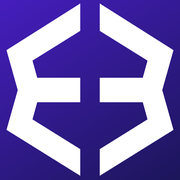
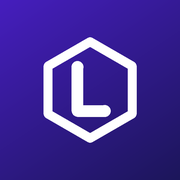
Larpodus : retire l'envoi/réception, rebrand parodie, garde l'ajout d'argent
Claude-Session: https://claude.ai/code/session_01Uumx4GnREwEhwNvb3LoRYL

diff --git a/exodus-larp/index.html b/exodus-larp/index.html
@@ -6,11 +6,11 @@
 <meta name="apple-mobile-web-app-capable" content="yes">
 <meta name="mobile-web-app-capable" content="yes">
 <meta name="apple-mobile-web-app-status-bar-style" content="black-translucent">
-<meta name="apple-mobile-web-app-title" content="Exodus">
+<meta name="apple-mobile-web-app-title" content="Larpodus">
 <meta name="theme-color" content="#161623">
 <link rel="manifest" href="manifest.json">
 <link rel="apple-touch-icon" href="apple-touch-icon.png">
-<title>Exodus</title>
+<title>Larpodus</title>
 <style>
 :root{--pur:#6c4dff;--pur2:#8467ff;--txt:#fff;--mut:#9a9aaf;--grn:#5be04b;--line:rgba(255,255,255,.1);--glass:rgba(255,255,255,.065)}
 *{box-sizing:border-box;-webkit-tap-highlight-color:transparent;-webkit-touch-callout:none}
@@ -173,12 +173,11 @@ input[type=number]{-moz-appearance:textfield}
       <div class="ctr" id="ctr" onclick="toggleHide()"></div></div>
     <div class="pills" id="pills">
       <div class="pill p" onclick="openTrade('buy')"><svg viewBox="0 0 24 24"><path d="M12 4v12M7 11l5 5 5-5M5 20h14"/></svg>Acheter</div>
-      <div class="pill" onclick="openReceive()"><svg viewBox="0 0 24 24"><path d="M18 6L6 18M6 8v10h10"/></svg>Recevoir</div>
-      <div class="pill" onclick="openSend()"><svg viewBox="0 0 24 24"><path d="M6 18L18 6M8 6h10v10"/></svg>Envoyer</div>
       <div class="pill" onclick="openTrade('sell')"><svg viewBox="0 0 24 24"><path d="M12 20V8M7 13l5-5 5 5M5 4h14"/></svg>Vendre</div>
     </div>
     <input class="fi sr" id="sr" placeholder="Rechercher" oninput="renderList()">
     <div class="cards" id="list"></div>
+    <div class="hint" style="margin-top:4px;font-size:12px;opacity:.55">Larpodus · mode démo</div>
   </div>
 
   <!-- SWAP -->
@@ -223,7 +222,7 @@ input[type=number]{-moz-appearance:textfield}
 <script>
 'use strict';
 const $=s=>document.querySelector(s);
-const LOGO='<path fill="#fff" d="M277 100V163L167 232L178 272H277V328H178L167 368L277 437V498L107 392L133 300L107 208Z"/><path fill="#fff" d="M323 100V163L433 232L422 272H323V328H422L433 368L323 437V498L493 392L467 300L493 208Z"/>';
+const LOGO='<path d="M300 70L500 185V415L300 530L100 415V185Z" fill="none" stroke="#fff" stroke-width="44" stroke-linejoin="round"/><path d="M240 190V400H370" fill="none" stroke="#fff" stroke-width="56" stroke-linecap="round" stroke-linejoin="round"/>';
 $('#logoS').innerHTML=LOGO;
 const CUR={EUR:{s:'€',r:1},USD:{s:'$',r:1.08},CHF:{s:'CHF ',r:.94},GBP:{s:'£',r:.85}};
 const CAT=[['LTC','Litecoin',60.49,-2.3,'#bdbdbd',0],['SOL','Solana',103.98,-2.2,'#111',0],['BTC','Bitcoin',73046.51,-.7,'url(#hb)',0],['ETH','Ethereum',2355.75,.6,'#3a3d5c',0],
@@ -233,13 +232,13 @@ const CAT=[['LTC','Litecoin',60.49,-2.3,'#bdbdbd',0],['SOL','Solana',103.98,-2.2
 const GLY={BTC:'₿',LTC:'Ł',ETH:'◆',USDT:'₮',BNB:'◆',XRP:'✕',DOGE:'Ð',ADA:'₳',AVAX:'A',TRX:'T',LINK:'⬡',TON:'▼',DOT:'●',USDC:'$'};
 const CG={BTC:'bitcoin',ETH:'ethereum',SOL:'solana',USDT:'tether',USDC:'usd-coin',BNB:'binancecoin',XRP:'ripple',DOGE:'dogecoin',ADA:'cardano',AVAX:'avalanche-2',LTC:'litecoin',TRX:'tron',SHIB:'shiba-inu',PEPE:'pepe',LINK:'chainlink',TON:'the-open-network',DOT:'polkadot'};
 const STAKE={SOL:1,ETH:1,ADA:1,DOT:1};
-const KEY='exodus-larp-v2';
+const KEY='larpodus-v1';
 const MOIS=['janv.','févr.','mars','avr.','mai','juin','juil.','août','sept.','oct.','nov.','déc.'];
 let S,ready=false,curTab=0;
 function fresh(){const y=new Date();y.setMonth(5,4);y.setHours(17,54,0,0);
  return{cur:'EUR',hide:false,seed:Math.floor(Math.random()*1e9),
  assets:CAT.map(([sym,name,price,ch,color])=>({sym,name,price,ch,color,qty:sym==='LTC'?.005159:sym==='SOL'?.000959:0,custom:false})),
- tx:[{type:'out',sym:'LTC',qty:.240221,eur:9.42,ts:y.getTime()}]}}
+ tx:[]}}
 function load(){try{S=JSON.parse(localStorage.getItem(KEY))}catch(e){}if(!S||!S.assets)S=fresh()}
 function save(){try{localStorage.setItem(KEY,JSON.stringify(S))}catch(e){}}
 load();
@@ -263,20 +262,6 @@ function hexIcon(a,sz){sz=sz||46;let inner;
  const fill=a.sym==='LTC'?'url(#hl)':a.color;
  return `<svg class="hex" width="${sz}" height="${sz}" viewBox="0 0 46 46"><defs><linearGradient id="hl" x1="0" y1="0" x2="1" y2="1"><stop offset="0" stop-color="#e4e4e4"/><stop offset="1" stop-color="#8e8e8e"/></linearGradient></defs><path d="M23 2.5l17.5 10v21L23 43.5 5.5 33.5v-21z" fill="${fill}" stroke="rgba(255,255,255,.28)" stroke-width="1.4" stroke-linejoin="round"/>${inner}</svg>`}
 const stk='<svg class="stk" viewBox="0 0 20 22"><path d="M10 1l8 4.5v11L10 21 2 16.5v-11z" fill="#3a3a52" stroke="rgba(255,255,255,.3)"/><path d="M6.5 14.5l7-7M7.3 8.4h.1M12.7 13.6h.1" stroke="#fff" stroke-width="1.6" stroke-linecap="round"/></svg>';
-
-/* qr / address */
-function addr(sym){let h=0;const s=sym+S.seed;for(let i=0;i<s.length;i++)h=(h*31+s.charCodeAt(i))>>>0;const r=()=>{h=(h*1664525+1013904223)>>>0;return h};
- const hx='0123456789abcdef',b58='123456789ABCDEFGHJKLMNPQRSTUVWXYZabcdefghijkmnopqrstuvwxyz';let o='';
- if(sym==='BTC'){o='bc1q';for(let i=0;i<38;i++)o+=hx[r()%16];return o}
- if(sym==='LTC'){o='ltc1q';for(let i=0;i<38;i++)o+=hx[r()%16];return o}
- if(['SOL','XRP','TRX','TON','DOT'].includes(sym)){for(let i=0;i<(sym==='SOL'?44:34);i++)o+=b58[r()%58];return(sym==='XRP'?'r':sym==='TRX'?'T':'')+o}
- o='0x';for(let i=0;i<40;i++)o+=hx[r()%16];return o}
-function qr(str){let h=5381;for(const c of str)h=(h*33+c.charCodeAt(0))>>>0;const r=()=>{h=(h*1664525+1013904223)>>>0;return h>>>16};
- const N=25;let d='';const fin=(x,y)=>{d+=`M${x} ${y}h7v7h-7z M${x+1} ${y+1}v5h5v-5z M${x+2} ${y+2}h3v3h-3z`};
- const inF=(x,y)=>(x<8&&y<8)||(x>N-9&&y<8)||(x<8&&y>N-9);
- for(let y=0;y<N;y++)for(let x=0;x<N;x++)if(!inF(x,y)&&r()%2)d+=`M${x} ${y}h1v1h-1z`;
- fin(0,0);fin(N-7,0);fin(0,N-7);
- return `<svg class="qr" viewBox="0 0 ${N} ${N}" shape-rendering="crispEdges"><path fill="#000" fill-rule="evenodd" d="${d}"/></svg>`}
 
 /* ---------- portfolio ---------- */
 let shown=0,anim;
@@ -336,7 +321,7 @@ function openAsset(sym,keep){const a=A(sym);if(!keep)dRange='1A';
  <span class="l" style="top:${(pad-14)/H*100}%;transform:translateY(-50%)">${CS()}${nf(mx*R(),2)}</span><span class="l" style="top:${(H-pad+14)/H*100}%;transform:translateY(-50%)">${CS()}${nf(mn*R(),2)}</span></div>
  <div class="bal"><div><b>${qf(a.qty)}</b><span>${esc(a.sym)}</span></div><div><div class="v"><span class="cu">${CS().trim()}</span><span class="in">${S.hide?'•••':vv[0]}</span><span class="de">${S.hide?'':'.'+vv[1]}</span></div><span>Valeur</span></div></div>
  ${th||''}<div style="height:120px"></div>
- <div class="acts" style="position:fixed;left:0;right:0;bottom:0;margin:0;padding:14px 8px calc(env(safe-area-inset-bottom) + 12px)">${ac('buy','Buy / Sell',`openTrade('buy','${sym}')`,1)}${ac('swap','Swap',`swapFrom('${sym}')`)}${ac('send','Envoyer',`openSend('${sym}')`)}${ac('recv','Recevoir',`openReceive('${sym}')`)}</div>`)}
+ <div class="acts" style="position:fixed;left:0;right:0;bottom:0;margin:0;padding:14px 8px calc(env(safe-area-inset-bottom) + 12px)">${ac('buy','Buy / Sell',`openTrade('buy','${sym}')`,1)}${ac('swap','Swap',`swapFrom('${sym}')`)}</div>`)}
 function cycRange(sym){const k=['1J','1S','1M','1A'];dRange=k[(k.indexOf(dRange)+1)%4];const y=$('#sh').scrollTop;openAsset(sym,1);$('#sh').scrollTop=y}
 function txRow(t,ctx){const a=A(t.sym)||{sym:t.sym,name:t.sym,color:'#555'};
  const bd={in:ICONS.recv,out:ICONS.send,buy:ICONS.buy,sell:'<path d="M12 20V8M7 13l5-5 5 5"/>',swap:ICONS.swap}[t.type];
@@ -369,23 +354,6 @@ function doTrade(){const a=A($('#tSym').value),q=tQty();if(q==null||isNaN(q)||(q
  else{a.qty+=q;S.tx.unshift({type:'buy',sym:a.sym,qty:q,eur:q*a.price*R(),ts:now})}
  save();closeSh();tab(0);render();toast(tMode==='buy'?'✓ Achat effectué':'✓ Vente effectuée')}
 
-/* send / receive */
-function openSend(sym){const f=S.assets.find(a=>a.qty>0);
- sheet(`<h3>Envoyer</h3><label class="f">Crypto</label><select class="fi" id="sSym" onchange="sPrev()">${optsA(sym||(f&&f.sym)||'BTC')}</select>
- <label class="f">Adresse</label><input class="fi" id="sTo" placeholder="Coller l'adresse" autocapitalize="off" autocorrect="off" spellcheck="false">
- <label class="f">Montant</label><input class="fi" id="sAmt" type="number" inputmode="decimal" placeholder="0" oninput="sPrev()">
- <div class="chips"><button onclick="sMax()">Max</button></div><div class="hint" id="sHint"></div>
- <button class="cta" style="width:100%;margin:8px 0 0" onclick="doSend()">Envoyer</button>`,1);sPrev()}
-function sPrev(){const a=A($('#sSym').value),q=parseFloat($('#sAmt').value)||0;$('#sHint').textContent=`Disponible : ${qf(a.qty)} ${a.sym}${q?` · ≈ ${CS()}${nf(q*a.price*R(),2)}`:''}`}
-function sMax(){$('#sAmt').value=A($('#sSym').value).qty;sPrev()}
-function doSend(){const a=A($('#sSym').value),q=parseFloat($('#sAmt').value),to=$('#sTo').value.trim();
- if(to.length<10){toast('Adresse invalide');return}if(!(q>0)){toast('Saisissez un montant');return}if(q>a.qty+1e-12){toast('Solde insuffisant');return}
- sheet(`<h3>Envoi en cours…</h3><div class="spin"></div><div class="hint">Diffusion de la transaction</div>`,1);
- setTimeout(()=>{a.qty=Math.max(0,a.qty-q);S.tx.unshift({type:'out',sym:a.sym,qty:q,eur:q*a.price*R(),ts:Date.now()});save();closeSh();render();toast(`✓ ${qf(q)} ${a.sym} envoyé`)},1600)}
-function openReceive(sym){sheet(`<h3>Recevoir</h3><select class="fi" id="rSym" onchange="rcv()">${optsA(sym||'BTC')}</select><div id="rB"></div>`,1);rcv()}
-function rcv(){const s=$('#rSym').value,ad=addr(s);$('#rB').innerHTML=qr(ad)+`<div class="ad">${ad}</div><button class="cta" style="width:100%;margin:16px 0 0" onclick="cp('${ad}')">Copier l'adresse</button>`}
-function cp(t){(navigator.clipboard?navigator.clipboard.writeText(t):Promise.reject()).then(()=>toast('Adresse copiée'),()=>toast('Adresse copiée'))}
-
 /* swap */
 let sf='LTC',st='SOL';
 const chev='<svg viewBox="0 0 12 12"><path d="M2 4l4 4 4-4"/></svg>';
@@ -412,7 +380,7 @@ function openSettings(){sheet(`<h3>Paramètres</h3>
  <div class="set" onclick="cycCur()"><span>Devise</span><span>${S.cur}</span></div>
  <div class="set" onclick="openCustom()"><span>Ajouter un actif</span><span>＋</span></div>
  <div class="set" onclick="resetAll()"><span style="color:#ff6b7f">Réinitialiser le portefeuille</span><span></span></div>
- <div class="hint" style="margin-top:26px">Exodus 26.9.29<br>Simulation pour le fun — aucun fonds réel.</div>`,1)}
+ <div class="hint" style="margin-top:26px">Larpodus 1.0<br>Simulation pour le fun — aucun fonds réel.</div>`,1)}
 function cycCur(){const k=Object.keys(CUR);S.cur=k[(k.indexOf(S.cur)+1)%k.length];save();render();openSettings()}
 function resetAll(){if(confirm('Tout réinitialiser ? Soldes et historique seront effacés.')){localStorage.removeItem(KEY);S=fresh();save();shown=0;closeSh();render();toast('Portefeuille réinitialisé')}}
 function openCustom(){sheet(`<h3>Nouvel actif</h3><label class="f">Nom</label><input class="fi" id="cN" placeholder="Memecoin" maxlength="20"><label class="f">Ticker</label><input class="fi" id="cS" placeholder="MEME" maxlength="6" autocapitalize="characters"><label class="f">Prix (${S.cur})</label><input class="fi" id="cP" type="number" inputmode="decimal" placeholder="0.0042"><label class="f">Quantité</label><input class="fi" id="cQ" type="number" inputmode="decimal" placeholder="1000000"><button class="cta" style="width:100%;margin:22px 0 0" onclick="doCustom()">Ajouter</button>`,1)}

diff --git a/exodus-larp/sw.js b/exodus-larp/sw.js
@@ -1,4 +1,4 @@
-const C = 'exo-larp-v2';
+const C = 'larpodus-v1';
 const FILES = ['./', 'index.html', 'manifest.json', 'apple-touch-icon.png', 'icon-192.png', 'icon-512.png'];
 self.addEventListener('install', e => {
   e.waitUntil(caches.open(C).then(c => c.addAll(FILES)));
